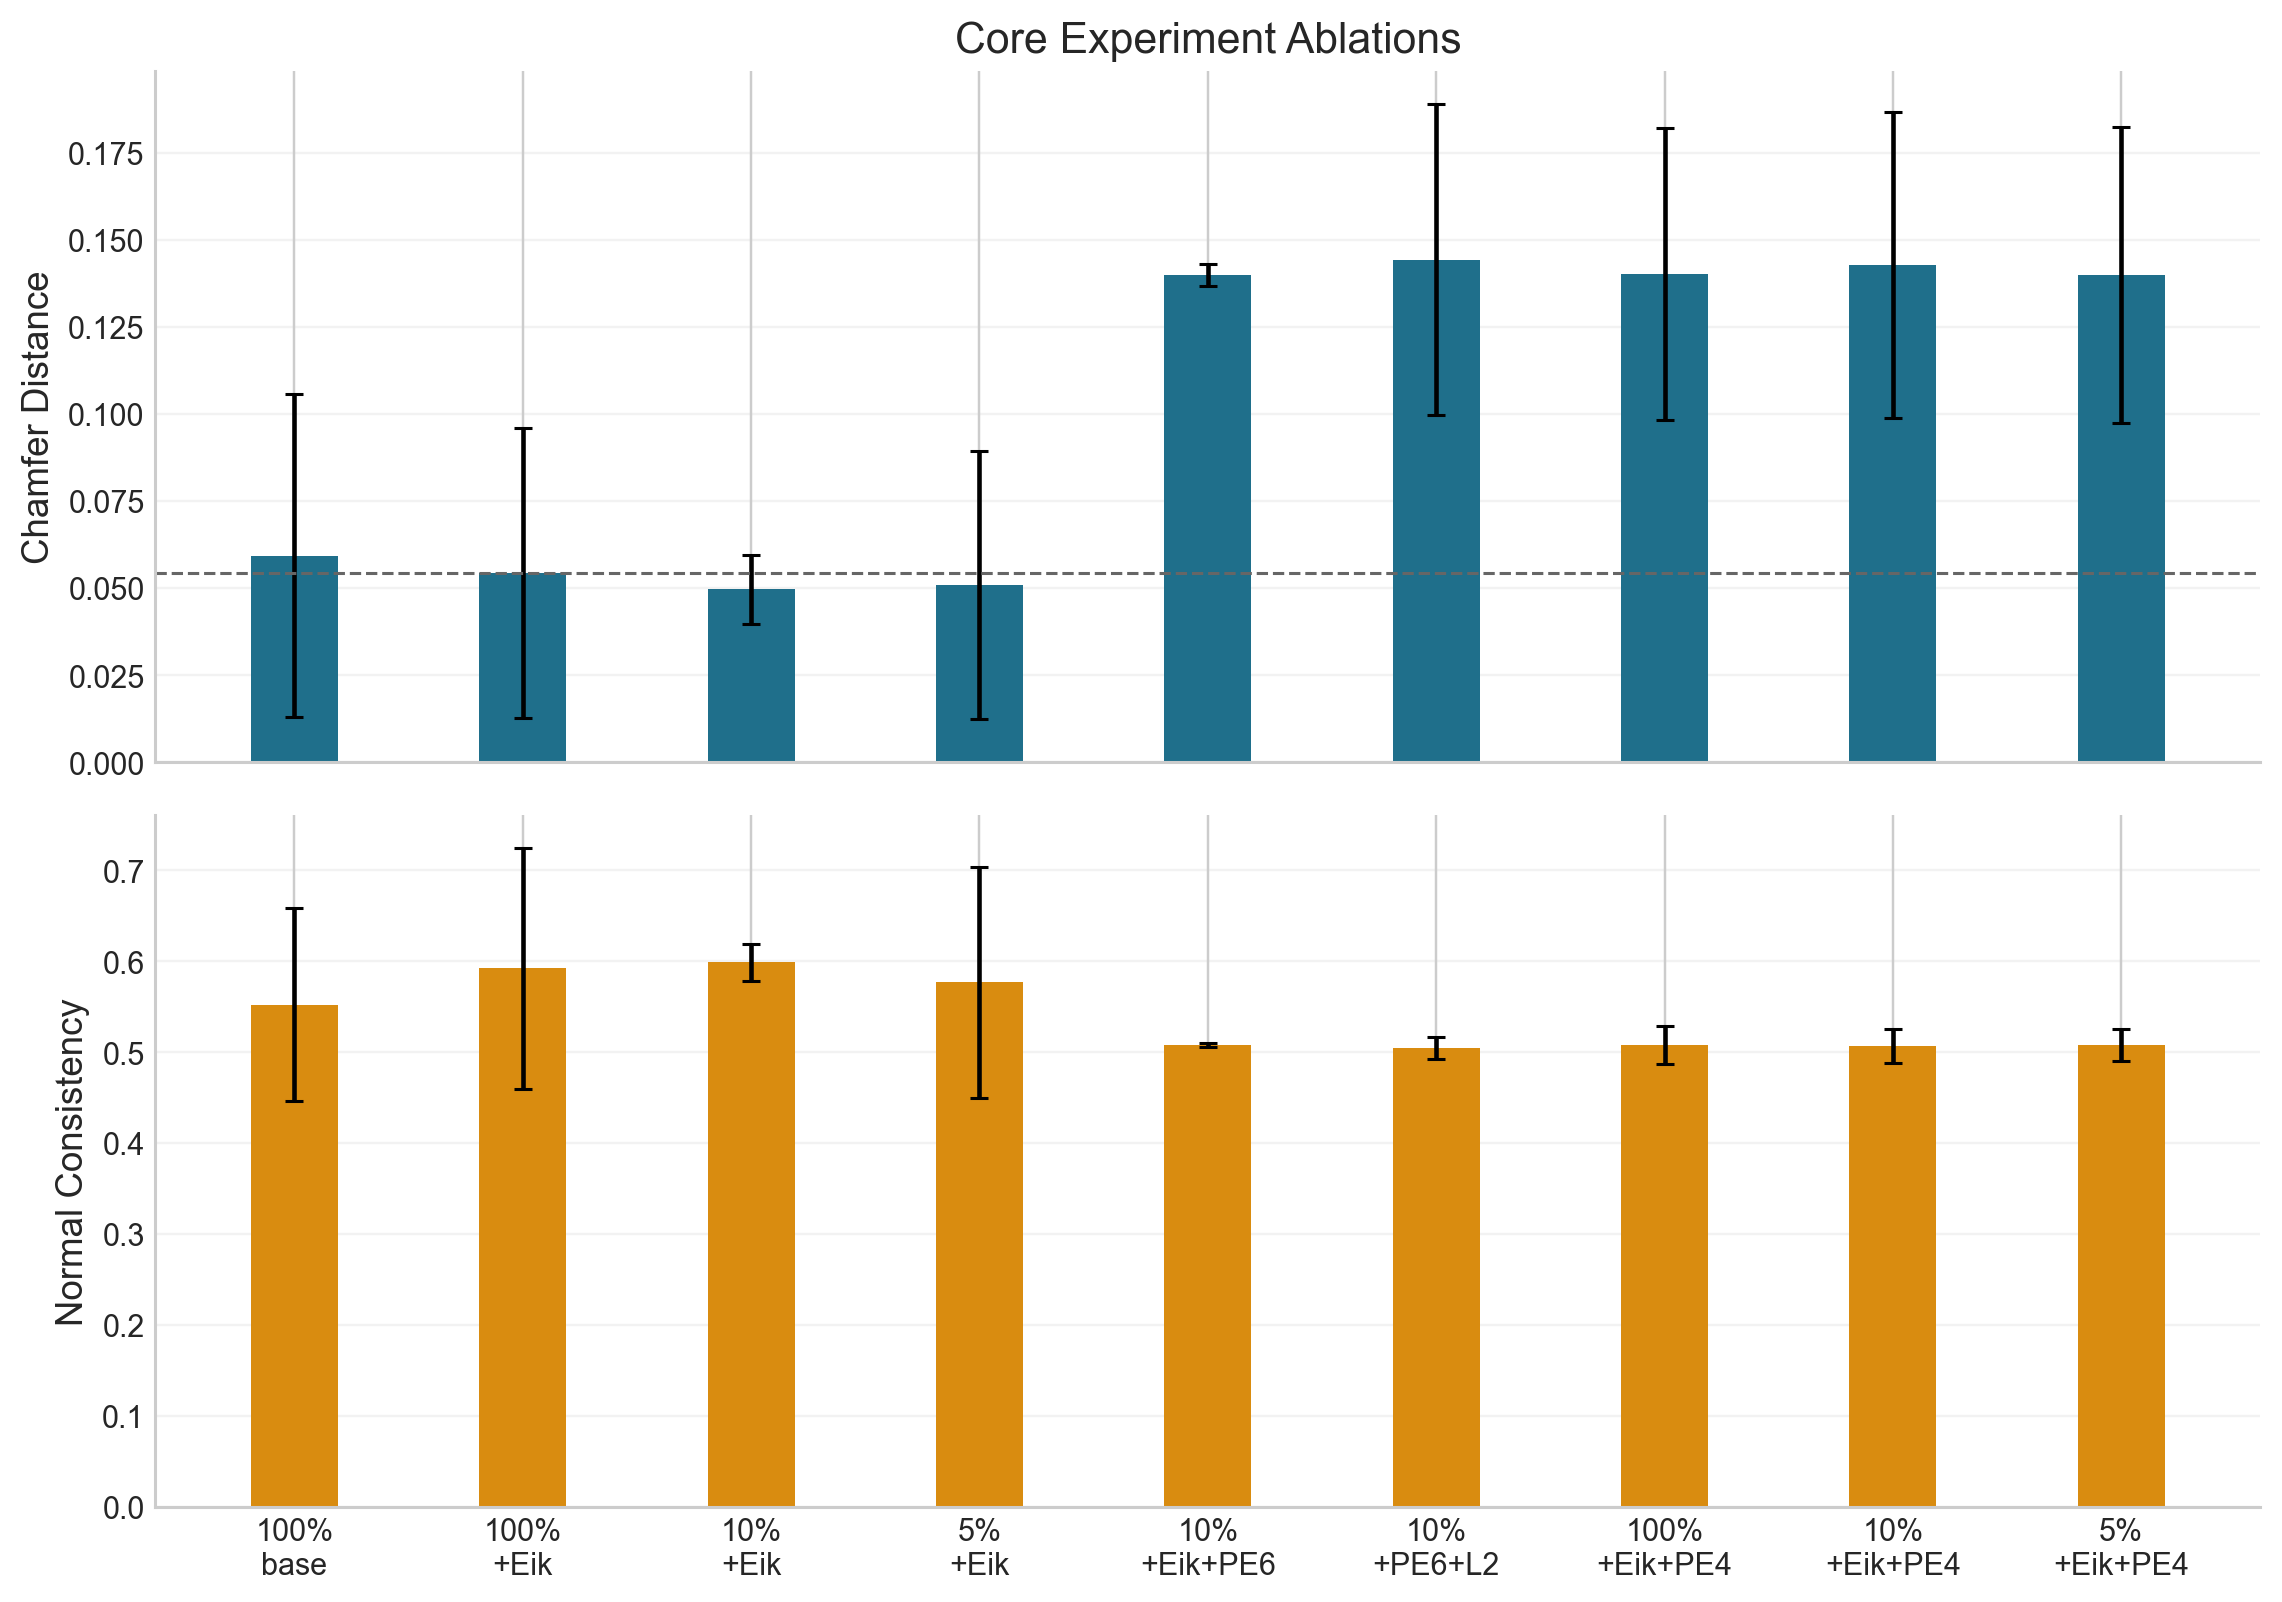
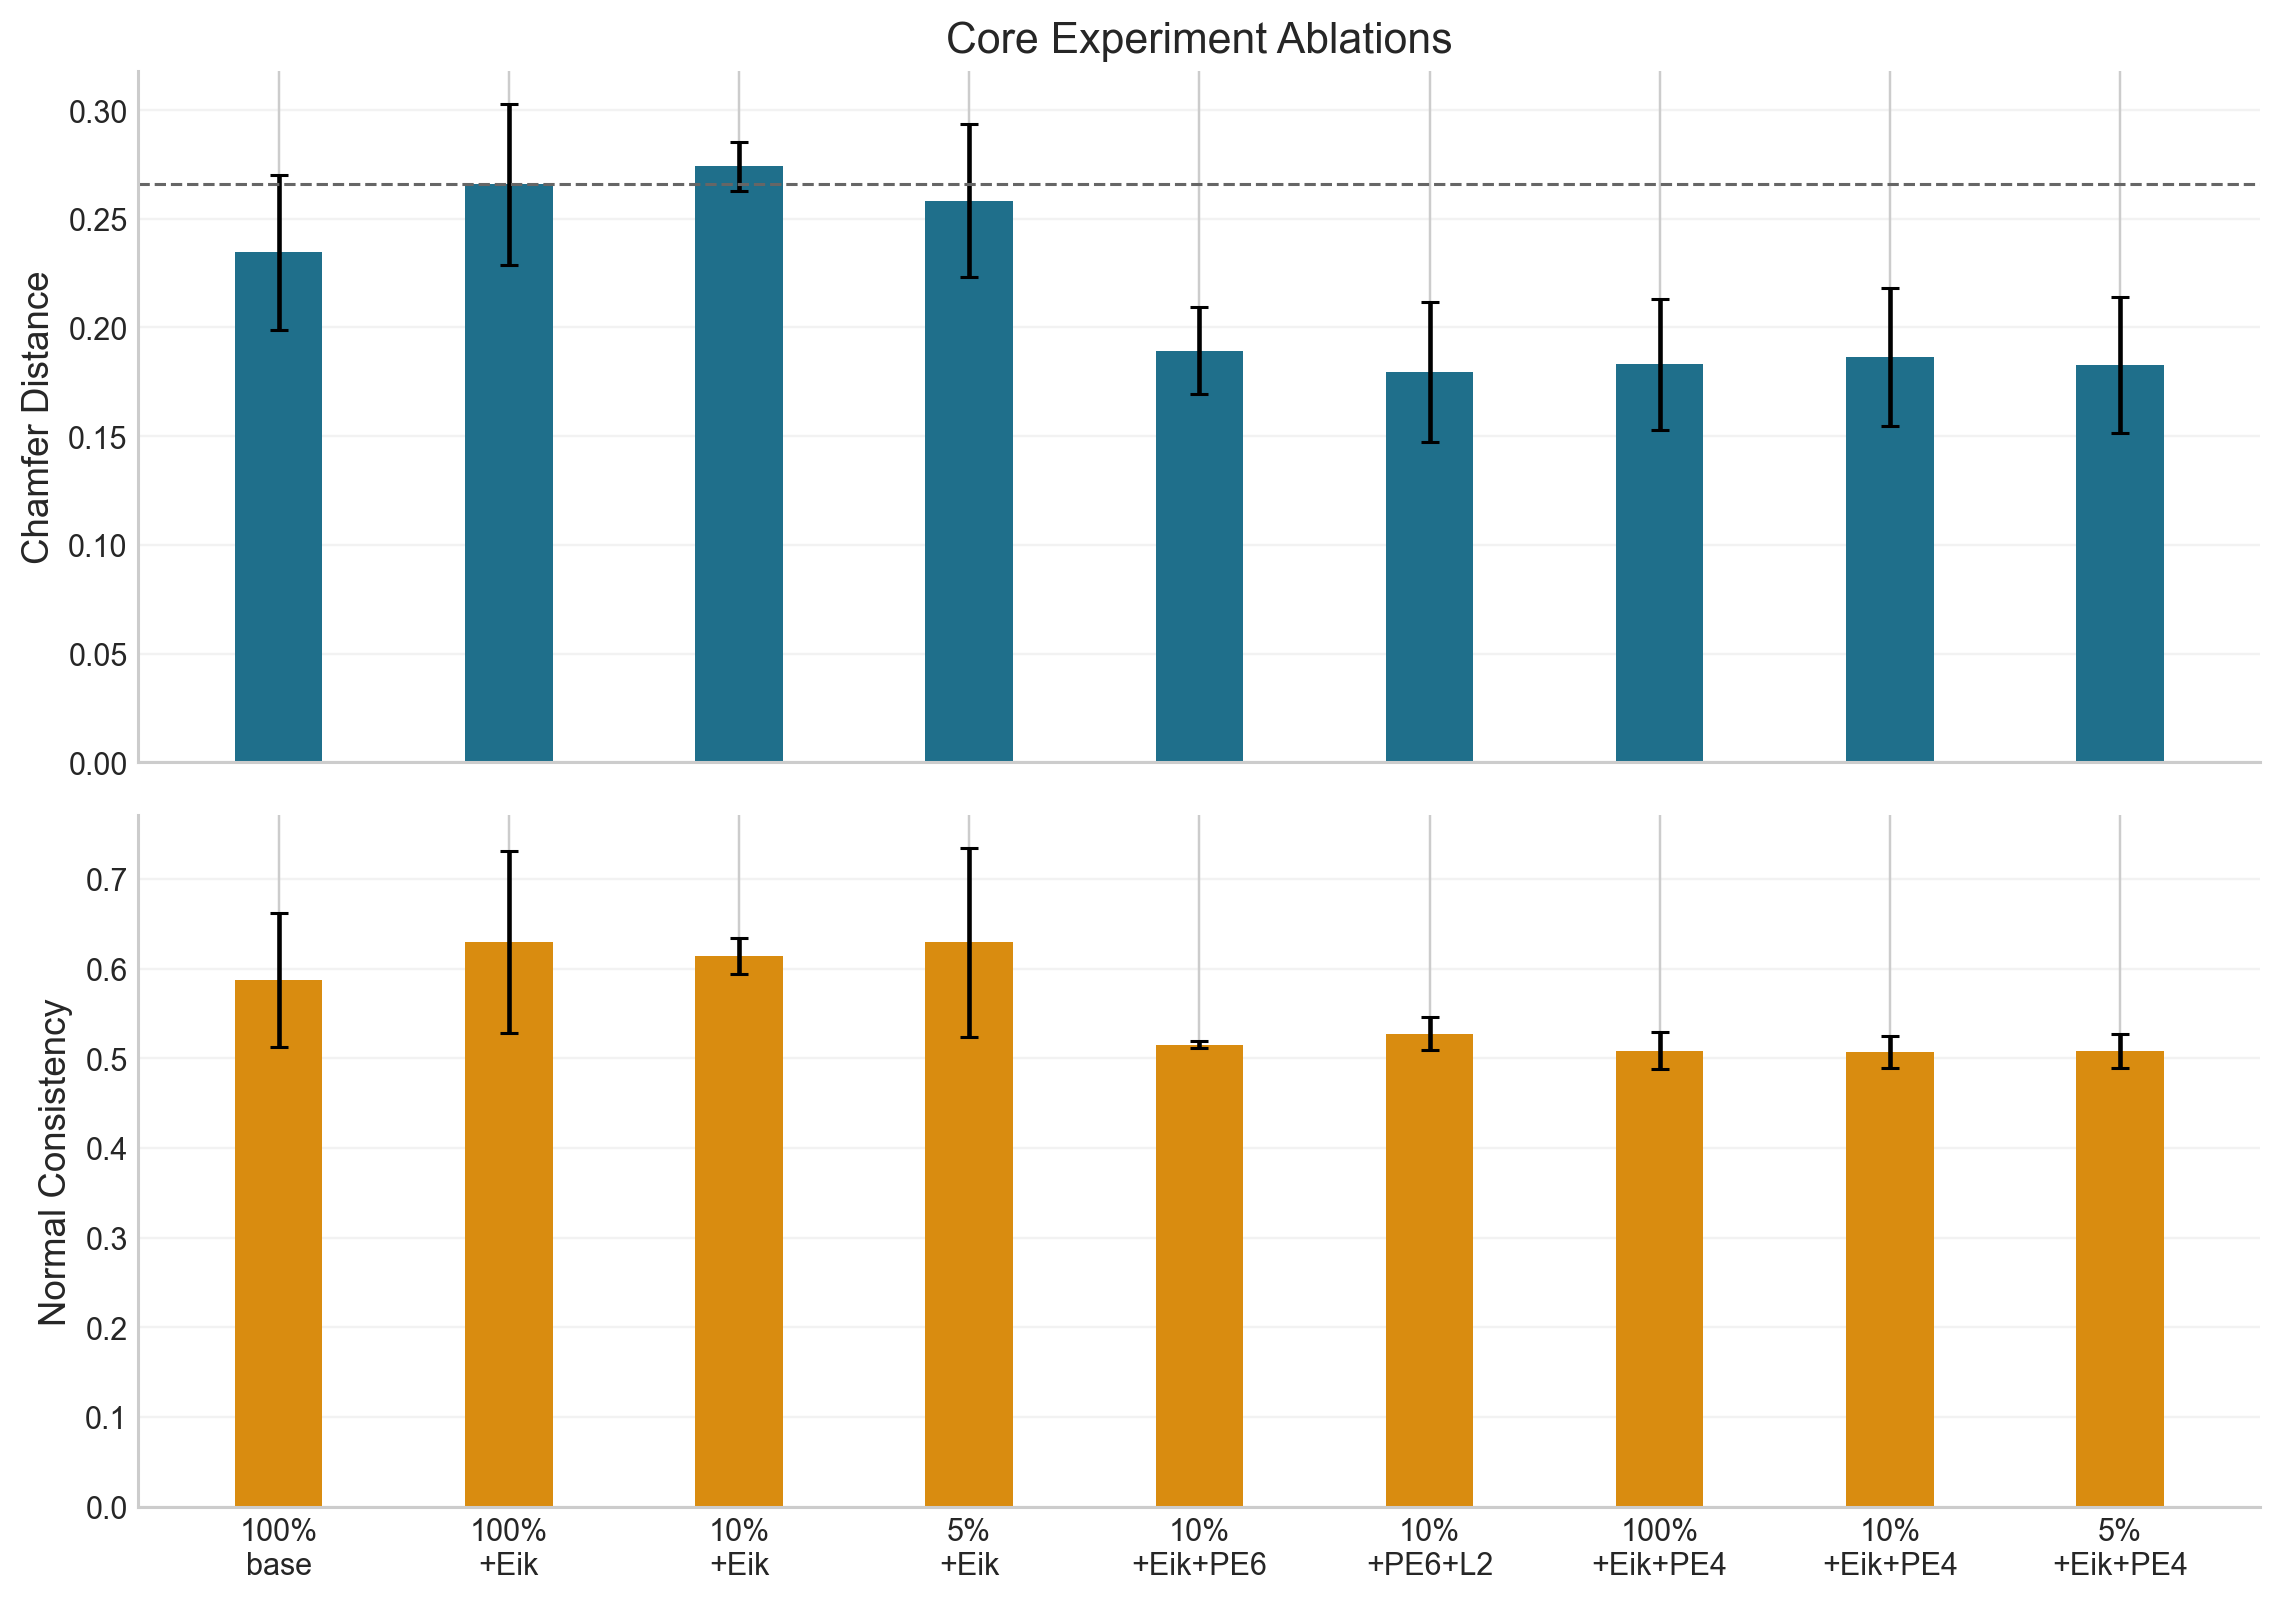
Make figure generator narrative-neutral for pre/post-fix data
Dynamic y-limits and drop the "PE lowers CD" annotations so the
generator adapts to whatever the post-preprocessing-fix retrains
produce, instead of hard-coding the misleading broken-evaluator
narrative.

diff --git a/scripts/generate_figures.py b/scripts/generate_figures.py
@@ -175,21 +175,17 @@ def generate_label_efficiency(rows: list[ResultRow], outdir: Path) -> Path:
     line(pe_l4, "Eikonal + PE (L=4)", "#c84c09", "s")
     line(pe_l6, "Eikonal + PE (L=6)", "#8b1e3f", "^")
 
-    ax.annotate(
-        "PE remains harmful\nat every tested ratio",
-        xy=(positions[2], pe_l4[10].cd_mean),
-        xytext=(1.35, 0.116),
-        arrowprops={"arrowstyle": "->", "color": "#444"},
-        fontsize=10,
-        color="#333",
-    )
-
     ax.set_xticks(positions)
     ax.set_xticklabels(["100%", "50%", "10%", "5%"])
     ax.set_xlabel("Supervision Ratio")
     ax.set_ylabel("Chamfer Distance (lower is better)")
     ax.set_title("Label Efficiency With and Without Fourier PE")
-    ax.set_ylim(0.035, 0.19)
+    # Dynamic y-range so the chart works across broken/fixed preprocessing regimes
+    all_cd = [r.cd_mean for r in [*no_pe.values(), *pe_l4.values(), *pe_l6.values()] if r.cd_mean is not None]
+    if all_cd:
+        lo, hi = min(all_cd), max(all_cd)
+        pad = (hi - lo) * 0.2 or 0.01
+        ax.set_ylim(max(0, lo - pad), hi + pad)
     ax.legend(frameon=True)
 
     path = outdir / "label_efficiency_cd.png"
@@ -272,14 +268,6 @@ def generate_pe_frequency(rows: list[ResultRow], outdir: Path) -> Path:
     ax.set_ylabel("Chamfer Distance")
     ax.set_title("PE Frequency Ablation")
     ax.legend(frameon=True)
-    ax.annotate(
-        "L=4 and L=6 both collapse\ninto the same poor regime",
-        xy=(1.0, get_row(rows, "EXP-11", "42").cd_mean),
-        xytext=(0.15, 0.118),
-        arrowprops={"arrowstyle": "->", "color": "#444"},
-        fontsize=10,
-        color="#333",
-    )
 
     path = outdir / "pe_frequency_ablation_cd.png"
     save(fig, path)
@@ -291,10 +279,11 @@ def generate_summary(rows: list[ResultRow], outdir: Path) -> Path:
     lines = [
         "Generated from experiments/experiment_log.md",
         "",
-        "Key takeaways:",
-        f"- 10% + Eikonal beats the full-supervision baseline: CD {get_row(rows, 'EXP-04', '3-seed').cd_mean:.4f} vs {get_row(rows, 'EXP-01', '42').cd_mean:.4f}",
-        f"- PE L=6 at 10% is catastrophic: CD {get_row(rows, 'EXP-06', '3-seed').cd_mean:.4f}",
-        f"- PE L=4 at 10% remains catastrophic: CD {get_row(rows, 'EXP-11', '42').cd_mean:.4f}",
+        "Key values:",
+        f"- Baseline (EXP-01, no Eik, no PE, 100%): CD {get_row(rows, 'EXP-01', '42').cd_mean:.4f}  NC {get_row(rows, 'EXP-01', '42').nc_mean:.4f}",
+        f"- 10% + Eikonal (no PE, 3-seed): CD {get_row(rows, 'EXP-04', '3-seed').cd_mean:.4f}  NC {get_row(rows, 'EXP-04', '3-seed').nc_mean:.4f}",
+        f"- PE L=6 at 10% (3-seed): CD {get_row(rows, 'EXP-06', '3-seed').cd_mean:.4f}  NC {get_row(rows, 'EXP-06', '3-seed').nc_mean:.4f}",
+        f"- PE L=4 at 10%: CD {get_row(rows, 'EXP-11', '42').cd_mean:.4f}  NC {get_row(rows, 'EXP-11', '42').nc_mean:.4f}",
     ]
     path.write_text("\n".join(lines) + "\n")
     return path
